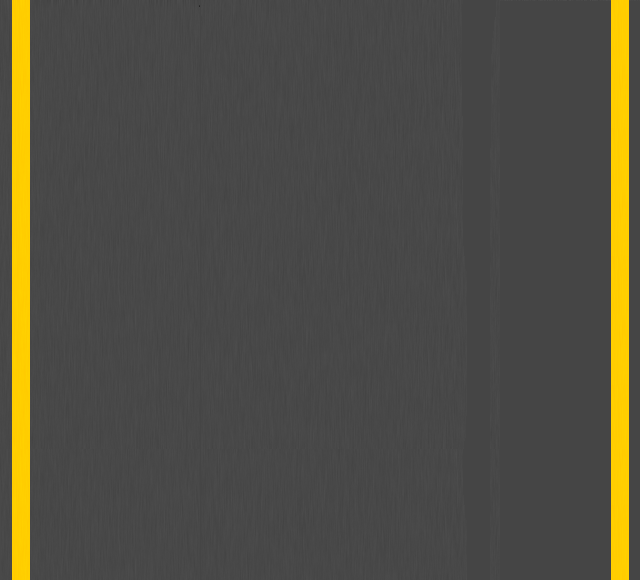
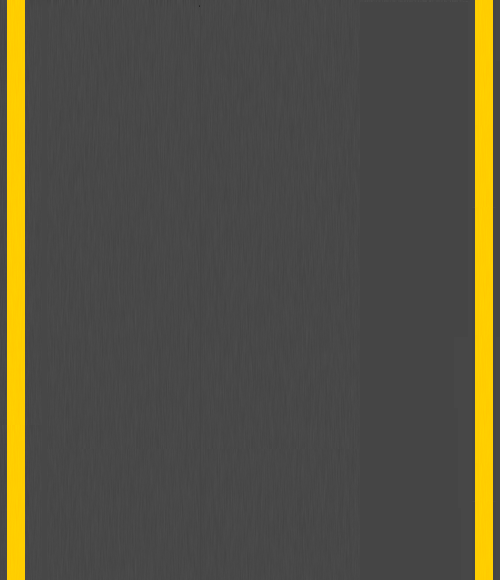
update

Changed region(s): [[0.93, 0.0, 1.0, 1.0], [0.0, 0.0, 0.06, 1.0]]

diff --git a/iKCoder/demos/MainPageDemo_3/Scene/scripts/Race_Setting/Scene/scene.js b/iKCoder/demos/MainPageDemo_3/Scene/scripts/Race_Setting/Scene/scene.js
@@ -178,7 +178,7 @@ var Scene = {
         this.canvas = document.getElementById(this.canvasId);
         this.canvas.style.backgroundColor = "#999";
         this.context = this.canvas.getContext('2d');
-        this.context.scale(0.78, 1.2);
+        //this.context.scale(0.78, 1.2);
         this.canvasPos = Util.getPosInDoc(this.canvas);
         this.initEvent();
     },
@@ -369,9 +369,9 @@ var Scene = {
             this.loadedCount = 0;
             this.totalCount = tCount;
             EntityObject.call(this);
-            var backgroundRect = new RectEntityObject(new Vector(267, 210), 106, 10, { border: { color: '#ccc', width: '2' } });
-            var forgroundRect = new RectEntityObject(new Vector(270, 213), 0, 4, { fill: '#999' });
-            var text = Scene.getTextEntityObject('LOADING...', { x: 281, y: 190 }, '#000', 12);
+            var backgroundRect = new RectEntityObject(new Vector(197, 260), 106, 10, { border: { color: '#ccc', width: '2' } });
+            var forgroundRect = new RectEntityObject(new Vector(200, 263), 0, 4, { fill: '#999' });
+            var text = Scene.getTextEntityObject('LOADING...', { x: 211, y: 240 }, '#000', 12);
             this._draw = function (context) {
                 backgroundRect.draw(context);
                 forgroundRect.draw(context);
@@ -425,7 +425,7 @@ var Scene = {
     },
 
     renderRoad: function () {
-        var road = new ImageEntityObject(this.resource.road.obj, new Vector(0, 0), 640, 480);
+        var road = new ImageEntityObject(this.resource.road.obj, new Vector(0, 0), 500, 580);
         this.screenObjPool.add(road);
     },
 
@@ -437,10 +437,10 @@ var Scene = {
     },
 
     showWelcome: function () {
-        var logo = this.getTextEntityObject('CAR RACE', { x: 160, y: 150 }, '#900', 64);
-        var welcome = this.getTextEntityObject('Click To Start', { x: 267, y: 310 }, '#333', 24);
-        var magic = new Magic(new Vector(70, 160), this.resource.saint.obj, Magic.ANIM_TYPE.VERTICAL, 56, new Vector(20, 0));
-        var magic2 = new Magic(new Vector(70, 260), this.resource.soldier.obj, Magic.ANIM_TYPE.VERTICAL, 48, new Vector(20, 0));
+        var logo = this.getTextEntityObject('CAR RACE', { x: 80, y: 200 }, '#900', 64);
+        var welcome = this.getTextEntityObject('Click To Start', { x: 187, y: 360 }, '#333', 24);
+        var magic = new Magic(new Vector(140, 210), this.resource.saint.obj, Magic.ANIM_TYPE.VERTICAL, 56, new Vector(20, 0));
+        var magic2 = new Magic(new Vector(140, 310), this.resource.soldier.obj, Magic.ANIM_TYPE.VERTICAL, 48, new Vector(20, 0));
         this.screenObjPool.add(logo);
         this.screenObjPool.add(welcome);
         this.screenObjPool.add(magic);
@@ -483,7 +483,7 @@ var Scene = {
     renderLane: function () {
         for (var i = 0; i < 9; i++) {
             var lanCfg = this.laneCfg[this.randomLane ? Util.random(0, 9) : i];
-            var newCar = new Car(new Vector(i * 64 + 50, Util.random(-480, -80)), Util.randomColor(), null, false, lanCfg);
+            var newCar = new Car(new Vector(i * 50 + 25, Util.random(-580, -80)), Util.randomColor(), null, false, lanCfg);
             newCar.hitable = true;
             this.screenObjPool.add(newCar);
         }
@@ -495,10 +495,10 @@ var Scene = {
         this.renderRoad();
         this.renderLane();
 
-        var leftC = new CollisionEntityObject(new Vector(0, 0), 30, 480);
-        var rightC = new CollisionEntityObject(new Vector(610, 0), 30, 480);
-        var topC = new CollisionEntityObject(new Vector(0, 0), 640, 40);
-        var bottomC = new CollisionEntityObject(new Vector(0, 480), 640, 10);
+        var leftC = new CollisionEntityObject(new Vector(0, 0), 25, 580);
+        var rightC = new CollisionEntityObject(new Vector(475, 0), 25, 580);
+        var topC = new CollisionEntityObject(new Vector(0, 0), 500, 20);
+        var bottomC = new CollisionEntityObject(new Vector(0, 580), 500, 10);
         var cMap = new CollistionMap();
         cMap.add(leftC);
         cMap.add(rightC);
@@ -506,7 +506,7 @@ var Scene = {
         cMap.add(bottomC);
 
         var self = this;
-        var player = new Car(new Vector(240, 390), Util.randomColor(), this.playerCfg.resource, { min: 0, max: 0 }, this.playerCfg);
+        var player = new Car(new Vector(225, 490), Util.randomColor(), this.playerCfg.resource, { min: 0, max: 0 }, this.playerCfg);
         player.setCollisionMap(cMap);
         var speedChange = this.playerCfg.change * 50;
         this.addEventListener(player, 'keyup', function (e) {
@@ -589,11 +589,11 @@ var Scene = {
     },
 
     endGame: function () {
-        var end = this.getTextEntityObject('GAME OVER', { x: 120, y: 150 }, '#900', 64);
-        var score = this.getTextEntityObject('Score ' + this.SCORE, { x: 240, y: 240 }, '#000', 32);
-        var restart = this.getTextEntityObject('Click To Restart', { x: 267, y: 310 }, '#333', 24);
-        var magic = new Magic(new Vector(70, 160), this.resource.saint.obj, Magic.ANIM_TYPE.VERTICAL, 56, new Vector(20, 0));
-        var magic2 = new Magic(new Vector(70, 260), this.resource.soldier.obj, Magic.ANIM_TYPE.VERTICAL, 48, new Vector(20, 0));
+        var end = this.getTextEntityObject('GAME OVER', { x: 50, y: 200 }, '#900', 64);
+        var score = this.getTextEntityObject('Score ' + this.SCORE, { x: 170, y: 290 }, '#000', 32);
+        var restart = this.getTextEntityObject('Click To Restart', { x: 147, y: 360 }, '#333', 24);
+        var magic = new Magic(new Vector(0, 210), this.resource.saint.obj, Magic.ANIM_TYPE.VERTICAL, 56, new Vector(20, 0));
+        var magic2 = new Magic(new Vector(0, 310), this.resource.soldier.obj, Magic.ANIM_TYPE.VERTICAL, 48, new Vector(20, 0));
         this.screenObjPool.add(end);
         this.screenObjPool.add(score);
         this.screenObjPool.add(restart);
@@ -707,5 +707,14 @@ var Scene = {
         }
         this.startRun();
         this.showWelcome();
+    },
+
+    pause: function () {
+        if (this.runStatus) {
+            this.runStatus = false;
+        } else {
+            this.runStatus = true;
+            this.renderFrame();
+        }
     }
 };

diff --git a/iKCoder/javascripts/core/widgetdiv.js b/iKCoder/javascripts/core/widgetdiv.js
@@ -57,14 +57,14 @@ Blockly.WidgetDiv.dispose_ = null;
 /**
  * Create the widget div and inject it onto the page.
  */
-Blockly.WidgetDiv.createDom = function() {
-  if (Blockly.WidgetDiv.DIV) {
-    return;  // Already created.
-  }
-  // Create an HTML container for popup overlays (e.g. editor widgets).
-  Blockly.WidgetDiv.DIV =
-      goog.dom.createDom(goog.dom.TagName.DIV, 'blocklyWidgetDiv');
-  document.body.appendChild(Blockly.WidgetDiv.DIV);
+Blockly.WidgetDiv.createDom = function () {
+    if (Blockly.WidgetDiv.DIV) {
+        return;  // Already created.
+    }
+    // Create an HTML container for popup overlays (e.g. editor widgets).
+    Blockly.WidgetDiv.DIV =
+        goog.dom.createDom(goog.dom.TagName.DIV, 'blocklyWidgetDiv');
+    document.body.appendChild(Blockly.WidgetDiv.DIV);
 };
 
 /**
@@ -74,39 +74,39 @@ Blockly.WidgetDiv.createDom = function() {
  * @param {Function} dispose Optional cleanup function to be run when the widget
  *   is closed.
  */
-Blockly.WidgetDiv.show = function(newOwner, rtl, dispose) {
-  Blockly.WidgetDiv.hide();
-  Blockly.WidgetDiv.owner_ = newOwner;
-  Blockly.WidgetDiv.dispose_ = dispose;
-  // Temporarily move the widget to the top of the screen so that it does not
-  // cause a scrollbar jump in Firefox when displayed.
-  var xy = goog.style.getViewportPageOffset(document);
-  Blockly.WidgetDiv.DIV.style.top = xy.y + 'px';
-  Blockly.WidgetDiv.DIV.style.direction = rtl ? 'rtl' : 'ltr';
-  Blockly.WidgetDiv.DIV.style.display = 'block';
+Blockly.WidgetDiv.show = function (newOwner, rtl, dispose) {
+    Blockly.WidgetDiv.hide();
+    Blockly.WidgetDiv.owner_ = newOwner;
+    Blockly.WidgetDiv.dispose_ = dispose;
+    // Temporarily move the widget to the top of the screen so that it does not
+    // cause a scrollbar jump in Firefox when displayed.
+    var xy = goog.style.getViewportPageOffset(document);
+    Blockly.WidgetDiv.DIV.style.top = xy.y + 'px';
+    Blockly.WidgetDiv.DIV.style.direction = rtl ? 'rtl' : 'ltr';
+    Blockly.WidgetDiv.DIV.style.display = 'block';
 };
 
 /**
  * Destroy the widget and hide the div.
  */
-Blockly.WidgetDiv.hide = function() {
-  if (Blockly.WidgetDiv.owner_) {
-    Blockly.WidgetDiv.owner_ = null;
-    Blockly.WidgetDiv.DIV.style.display = 'none';
-    Blockly.WidgetDiv.DIV.style.left = '';
-    Blockly.WidgetDiv.DIV.style.top = '';
-    Blockly.WidgetDiv.dispose_ && Blockly.WidgetDiv.dispose_();
-    Blockly.WidgetDiv.dispose_ = null;
-    goog.dom.removeChildren(Blockly.WidgetDiv.DIV);
-  }
+Blockly.WidgetDiv.hide = function () {
+    if (Blockly.WidgetDiv.owner_) {
+        Blockly.WidgetDiv.owner_ = null;
+        Blockly.WidgetDiv.DIV.style.display = 'none';
+        Blockly.WidgetDiv.DIV.style.left = '';
+        Blockly.WidgetDiv.DIV.style.top = '';
+        Blockly.WidgetDiv.dispose_ && Blockly.WidgetDiv.dispose_();
+        Blockly.WidgetDiv.dispose_ = null;
+        goog.dom.removeChildren(Blockly.WidgetDiv.DIV);
+    }
 };
 
 /**
  * Is the container visible?
  * @return {boolean} True if visible.
  */
-Blockly.WidgetDiv.isVisible = function() {
-  return !!Blockly.WidgetDiv.owner_;
+Blockly.WidgetDiv.isVisible = function () {
+    return !!Blockly.WidgetDiv.owner_;
 };
 
 /**
@@ -114,10 +114,10 @@ Blockly.WidgetDiv.isVisible = function() {
  *   object.
  * @param {!Object} oldOwner The object that was using this container.
  */
-Blockly.WidgetDiv.hideIfOwner = function(oldOwner) {
-  if (Blockly.WidgetDiv.owner_ == oldOwner) {
-    Blockly.WidgetDiv.hide();
-  }
+Blockly.WidgetDiv.hideIfOwner = function (oldOwner) {
+    if (Blockly.WidgetDiv.owner_ == oldOwner) {
+        Blockly.WidgetDiv.hide();
+    }
 };
 
 /**
@@ -129,24 +129,34 @@ Blockly.WidgetDiv.hideIfOwner = function(oldOwner) {
  * @param {!goog.math.Coordinate} scrollOffset X/y of window scrollbars.
  * @param {boolean} rtl True if RTL, false if LTR.
  */
-Blockly.WidgetDiv.position = function(anchorX, anchorY, windowSize,
+Blockly.WidgetDiv.position = function (anchorX, anchorY, windowSize,
                                       scrollOffset, rtl) {
-  // Don't let the widget go above the top edge of the window.
-  if (anchorY < scrollOffset.y) {
-    anchorY = scrollOffset.y;
-  }
-  if (rtl) {
-    // Don't let the widget go right of the right edge of the window.
-    if (anchorX > windowSize.width + scrollOffset.x) {
-      anchorX = windowSize.width + scrollOffset.x;
+    // Don't let the widget go above the top edge of the window.
+    if (anchorY < scrollOffset.y) {
+        anchorY = scrollOffset.y;
     }
-  } else {
-    // Don't let the widget go left of the left edge of the window.
-    if (anchorX < scrollOffset.x) {
-      anchorX = scrollOffset.x;
+    if (rtl) {
+        // Don't let the widget go right of the right edge of the window.
+        if (anchorX > windowSize.width + scrollOffset.x) {
+            anchorX = windowSize.width + scrollOffset.x;
+        }
+    } else {
+        // Don't let the widget go left of the left edge of the window.
+        if (anchorX < scrollOffset.x) {
+            anchorX = scrollOffset.x;
+        }
     }
-  }
-  Blockly.WidgetDiv.DIV.style.left = anchorX + 'px';
-  Blockly.WidgetDiv.DIV.style.top = anchorY + 'px';
-  Blockly.WidgetDiv.DIV.style.height = windowSize.height + 'px';
+    Blockly.WidgetDiv.DIV.style.left = anchorX + 'px';
+    Blockly.WidgetDiv.DIV.style.top = anchorY + 'px';
+    //Blockly.WidgetDiv.DIV.style.height = windowSize.height + 'px';
+    var wrapDiv = Blockly.WidgetDiv.DIV.childNodes;
+    if (wrapDiv.length == 1) {
+        wrapDiv = wrapDiv[0];
+        var itemDivs = wrapDiv.childNodes;
+        if (itemDivs.length > 0) {
+            Blockly.WidgetDiv.DIV.style.height = itemDivs[0].offsetHeight * itemDivs.length + 'px';
+        } else {
+            Blockly.WidgetDiv.DIV.style.height = '0px';
+        }
+    }
 };

diff --git a/iKCoder/demos/MainPageDemo_3/Scene/scripts/page.js b/iKCoder/demos/MainPageDemo_3/Scene/scripts/page.js
@@ -17,29 +17,29 @@ function onLoad() {
         }
     }
 
-    if (scenes[currSceneSymbol]) {
-        $.getScript("scripts/" + scenes[currSceneSymbol] + "/Blocks/blocks.js", function () {
-            $.getScript("scripts/" + scenes[currSceneSymbol] + "/Engine/game_engine.js", function () {
-                $.getScript("scripts/" + scenes[currSceneSymbol] + "/Scene/scene.js", function () {
-                    $.getScript("scripts/" + scenes[currSceneSymbol] + "/WorkScene.js", function () {
-                        WorkScene.init();
-                    });
-                });
-            });
-        });
-    } else {
-        $.getScript("scripts/" + scenes['pacman'] + "/Blocks/blocks.js", function () {
-            $.getScript("scripts/" + scenes['pacman'] + "/Engine/game_engine.js", function () {
-                $.getScript("scripts/" + scenes['pacman'] + "/Scene/scene.js", function () {
-                    $.getScript("scripts/" + scenes['pacman'] + "/WorkScene.js", function () {
-                        WorkScene.init();
-                    });
-                });
-            });
-        });
-    }
-
-    //bindEvents();
+    //if (scenes[currSceneSymbol]) {
+    //    $.getScript("scripts/" + scenes[currSceneSymbol] + "/Blocks/blocks.js", function () {
+    //        $.getScript("scripts/" + scenes[currSceneSymbol] + "/Engine/game_engine.js", function () {
+    //            $.getScript("scripts/" + scenes[currSceneSymbol] + "/Scene/scene.js", function () {
+    //                $.getScript("scripts/" + scenes[currSceneSymbol] + "/WorkScene.js", function () {
+    //                    WorkScene.init();
+    //                });
+    //            });
+    //        });
+    //    });
+    //} else {
+    //    $.getScript("scripts/" + scenes['pacman'] + "/Blocks/blocks.js", function () {
+    //        $.getScript("scripts/" + scenes['pacman'] + "/Engine/game_engine.js", function () {
+    //            $.getScript("scripts/" + scenes['pacman'] + "/Scene/scene.js", function () {
+    //                $.getScript("scripts/" + scenes['pacman'] + "/WorkScene.js", function () {
+    //                    WorkScene.init();
+    //                });
+    //            });
+    //        });
+    //    });
+    //}
+    WorkScene.init();
+    bindEvents();
 }
 
 function bindEvents() {

diff --git a/iKCoder/demos/MainPageDemo_3/Scene/index.html b/iKCoder/demos/MainPageDemo_3/Scene/index.html
@@ -13,33 +13,12 @@
     <script src="../../../javascripts/blocks_uncompressed.js"></script>
     <script src="../../../javascripts/javascript_uncompressed.js"></script>
     <script src="../../../msg/messages.js"></script>
+    <script src="scripts/Race_Setting/Blocks/blocks.js"></script>
+    <script src="scripts/Race_Setting/Engine/game_engine.js"></script>
+    <script src="scripts/Race_Setting/Scene/scene.js"></script>
+    <script src="scripts/Race_Setting/WorkScene.js"></script>
     <script src="scripts/page.js"></script>
     <script type="text/javascript">
-        function testTextWidth(sourceTagId) {
-            var sourceTag = document.getElementById(sourceTagId);
-            if (!sourceTag) {
-                return -1;
-            }
-
-            var testDiv = document.getElementById("div_test_text_widht");
-            if (!testDiv) {
-                testDiv = document.createElement("div");
-                testDiv.id = "div_test_text_widht";
-                testDiv.style.position = "absolute";
-                testDiv.style.left = "-10000px";
-                testDiv.style.top = "-10000px";
-                testDiv.style.width = "auto";
-                document.body.appendChild(testDiv);
-            }
-
-            testDiv.style.fontFamily = sourceTag.style.fontFamily;
-            testDiv.style.fontSize = sourceTag.style.fontSize;
-            testDiv.style.fontWeight = sourceTag.style.fontWeight;
-            testDiv.innerHTML = sourceTag.innerHTML;
-
-            return testDiv.clientWidth;
-        }
-
         function setTextHorizontalScroll(sourceTagId, maxWidth) {
             var sourceTag = document.getElementById(sourceTagId);
             if (!sourceTag) {

diff --git a/iKCoder/demos/MainPageDemo_3/Scene/scripts/Race_Setting/Engine/game_engine.js b/iKCoder/demos/MainPageDemo_3/Scene/scripts/Race_Setting/Engine/game_engine.js
@@ -184,8 +184,8 @@ var Car = function (v, style, resource, speed, laneCfg) {
             }
         }
 
-        if (this.position.y > 480) {
-            this.position.y = Util.random(-240, 0);
+        if (this.position.y > 580) {
+            this.position.y = Util.random(-290, 0);
             this.speedVector = new Vector(0, Math.ceil(Util.random(this.speed.min, this.speed.max)));
             if (this.laneConfig) {
                 if (this.resource.length > 1) {
@@ -203,7 +203,9 @@ var Car = function (v, style, resource, speed, laneCfg) {
 
     this._draw = function (context) {
         //if (this.position.y < 280) {
-        context.drawImage(this.img, this.position.x - 3, this.position.y - 3);
+        //context.drawImage(this.img, this.position.x - 3, this.position.y - 3);
+        //context.drawImage(this.img, this.position.x - 3, this.position.y - 3, this.img.width * 0.78, this.img.height * 0.78);
+        context.drawImage(this.img, this.position.x, this.position.y, this.img.width * 0.78, this.img.height * 0.78);
         // if (this.index) {
         //    context["fillStyle"] ="#900";
         //    context["font"] ="bold 16px Verdana";

diff --git a/iKCoder/demos/MainPageDemo_3/Scene/scripts/Race_Setting/WorkScene.js b/iKCoder/demos/MainPageDemo_3/Scene/scripts/Race_Setting/WorkScene.js
@@ -278,7 +278,7 @@ WorkScene.outputCode = function () {
     var content = document.getElementById('codeContentTxt');
     var code = Blockly.JavaScript.workspaceToCode(WorkScene.workspace);
     content.textContent = code;
-}
+};
 
 WorkScene.resetScene = function () {
     window.location.reload();
@@ -293,4 +293,8 @@ WorkScene.resetScene = function () {
     //configs.enemySpeed = 0;
     //configs.activeEnemyCount = 2;
     //Scene.Init('canvas_content', configs);
-}
+};
+
+WorkScene.pauseScene = function () {
+    Scene.pause();
+}; 
